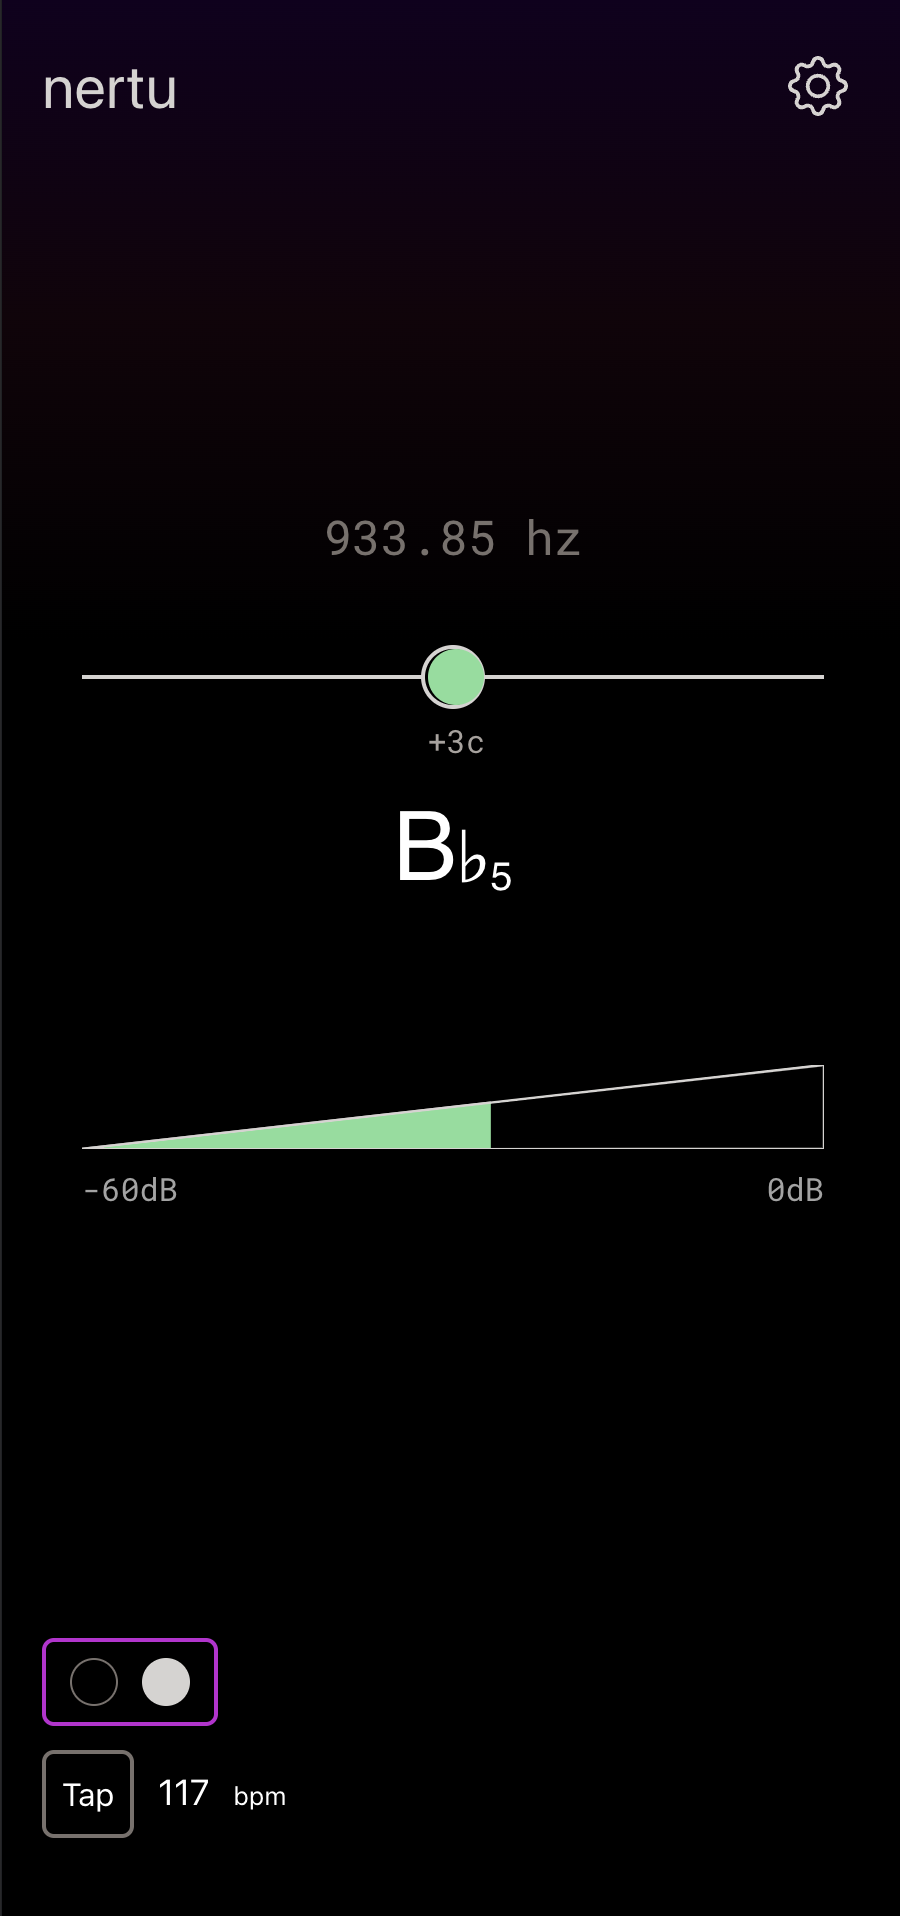
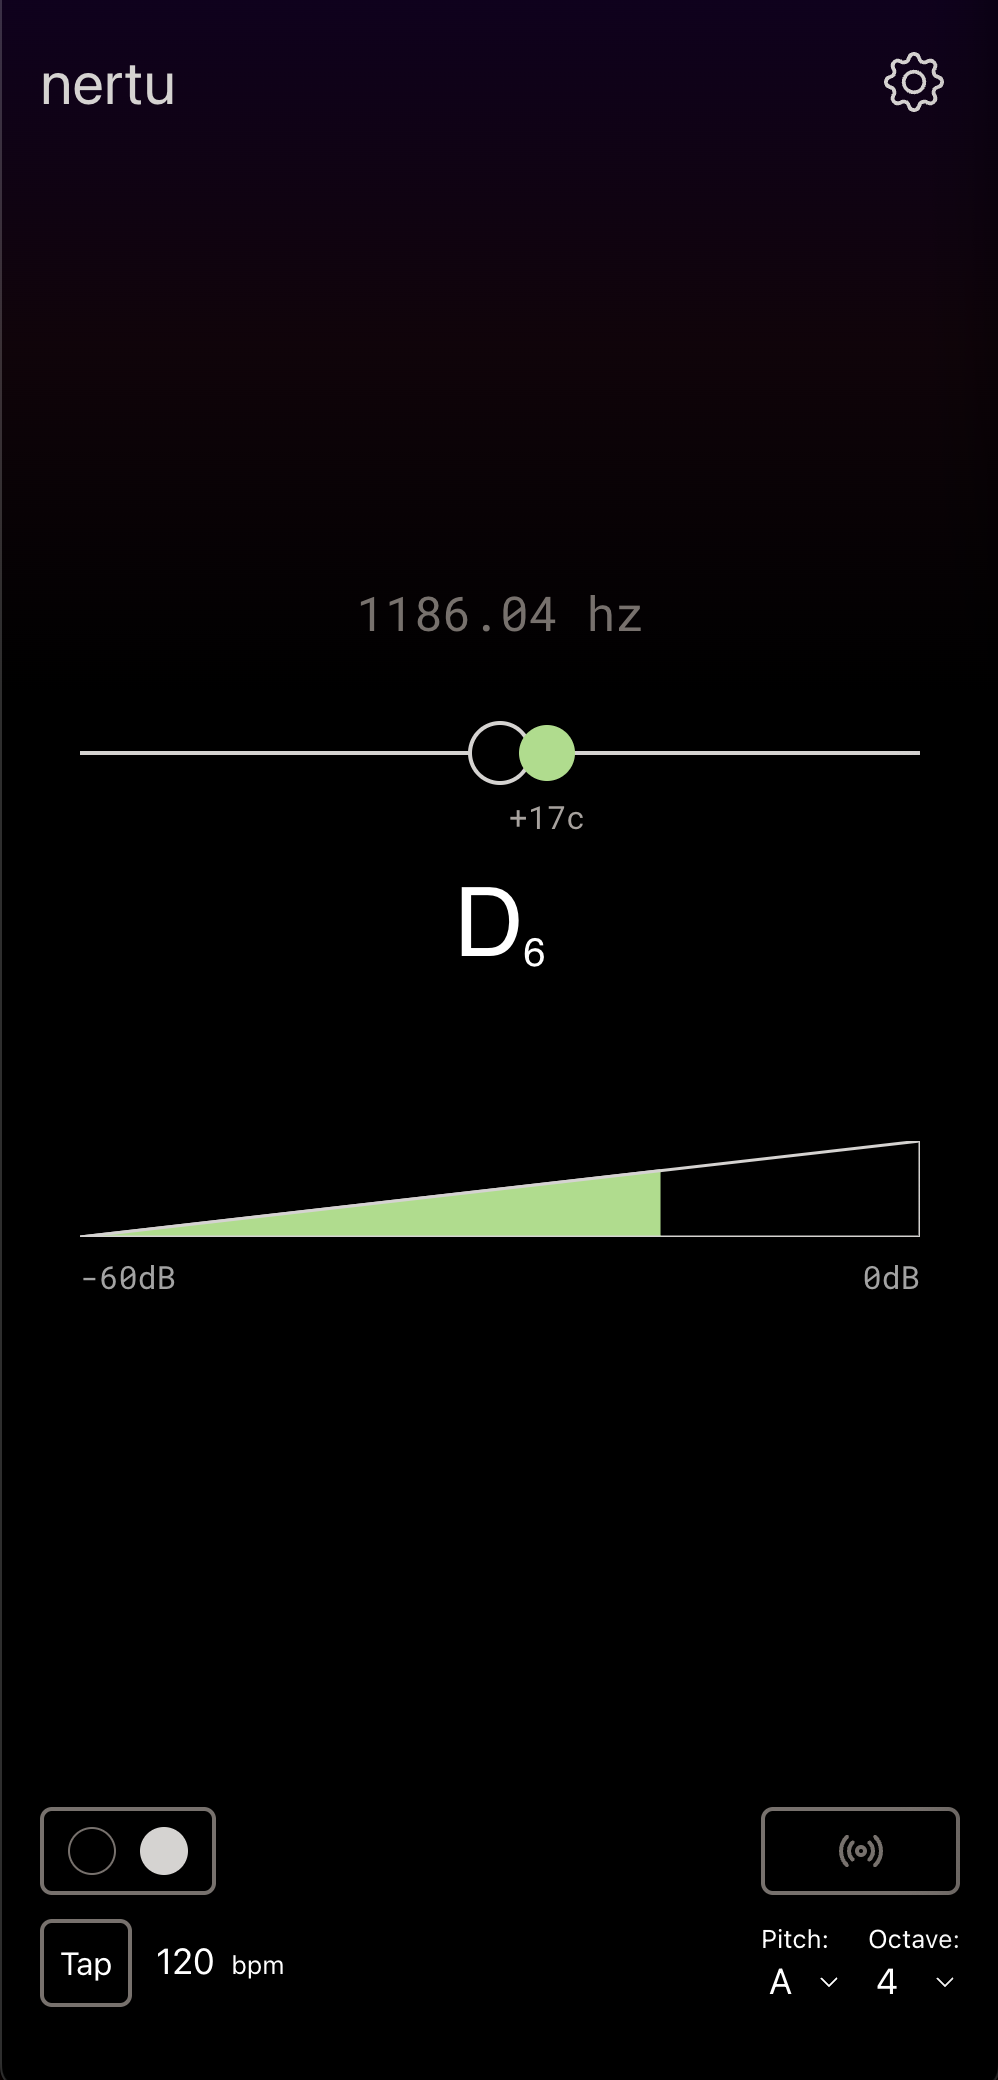
updated readme

diff --git a/README.md b/README.md
@@ -2,6 +2,13 @@
 
 No-nonsense, easy to use tuner webapp 🎷
 
+Features:
+
+- ✅ Chromatic tuner with instrument transposition and setting frequency for A<sub>4</sub>
+- ✅ Tuning fork
+- ✅ Tap tempo metronome
+- ✅ Usable offline as a progressive web app
+
 Visit: [nertu.app](https://nertu.app)
 
 <img width="450px" src="public/preview.png" alt="Nertu webapp preview" />
